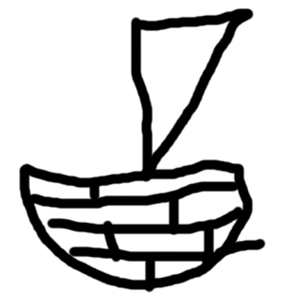
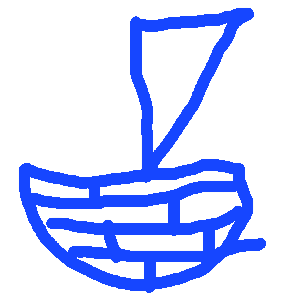
fufytkdty

Changed region(s): [[0.06, 0.03, 0.9, 0.99]]

diff --git a/index.html b/index.html
@@ -3,8 +3,8 @@
 <head>
     <meta charset="UTF-8">
     <meta name="viewport" content="width=device-width, initial-scale=1.0">
-    <meta name="description" content="Nothing special">
-    <title>Irmonus- Porftolio</title>
+    <meta name="description" content="jack of all trades hobbies">
+    <title>Irmonus- Interests</title>
     <link rel="icon" type="image/x-icon" href="/images/shadownirmonustransparent.png">
     <link rel="apple-touch-icon" sizes="180x180" href="/images/appletouchicon.png">
     <link rel="stylesheet" href="styles.css">
@@ -29,8 +29,8 @@
 </div>
 
 <div class="hero">
-  <h1>Portfolio</h1>
-  <p> </p>
+  <h1>Interests/Hobbies</h1>
+  <p></p>
 </div>
     
 <!-- Featured Topics/Games Section -->
@@ -40,32 +40,126 @@
       
           
       
-  <div class="topic">
+  
+
+ 
+   <div class="topic">
     <a href="sections/code.html">
     <h3>Coding/Programming</h3>
-    <img src="../images/rolimonsapi.png" alt="[Image of python program gathering data from rolimons then using that data to find sellers on roblox api]" class="fullsizeimage">
-    <p>Some fun projects I've made.</p>
+    <img src="../images/stockcodeimage.jpg" alt="[Image of python program gathering data from rolimons then using that data to find sellers on roblox api]" class="fullsizeimage">
+    <p>Creative/detailed projects.</p>
     </a>
   </div>
-
     
   <div class="topic">
     <a href="sections/music.html">
     <h3>Violinist</h3>
-    <img src="../images/violin.jpg" alt="[Image of violin]" class="fullsizeimage">
-    <p>Sup i'm musician.</p>
+    <img src="../images/stockviolinimage.jpg" alt="[Image of violin]" class="fullsizeimage">
+    <p>University Violinist playing for ODU Symphony.</p>
     </a>
   </div>
     
+   <div class="topic">
+    <a href="sections/fpvdrones.html">
+    <h3>Running!</h3>
+    <img src="../images/runningstockimage.jpg" alt="[Image of David Vytopil/irmonus running in 5k crowd]" class= "fullsizeimage">
+    <p>5k Running and Training.</p>
+    </a>
+  </div>
+
+
+  <div class="topic">
+    <a href="sections/fpvdrones.html">
+    <h3>Chess</h3>
+    <img src="../images/stockchessphoto.jpg" alt="[Image of David Vytopil/irmonus at chess event]" class= "fullsizeimage">
+    <p>Rated 1500 Rapid, Progress and Journey.</p>
+    </a>
+  </div>
+
+   <div class="topic">
+    <a href="sections/fpvdrones.html">
+    <h3>FPV Drones</h3>
+    <img src="../images/fpvheadimage.jpg" alt="[Image of static fpv shot]" class= "fullsizeimage">
+    <p>Freestyling and racing.</p>
+    </a>
+  </div>
+
       
+
+
+
+<div class="topic">
+    <a href="sections/fpvdrones.html">
+    <h3>Typing</h3>
+    <img src="../images/stocktypingimage.jpg" alt="[Image of nitrotype screenshot]" class= "fullsizeimage">
+    <p>177WPM peak, QWERTY, Colemak, Dvorak experimentation.</p>
+    </a>
+  </div>
+
+
+
+
+
+<div class="topic">
+    <a href="sections/fpvdrones.html">
+    <h3>Language Learning</h3>
+    <img src="../images/stocklanguageimage.jpg" alt="[Image of David Vytopil/irmonus CLS Spark Japanese Certificate]" class= "fullsizeimage">
+    <p>Polyglot in Progress.</p>
+    </a>
+  </div>
+
+  <div class="topic">
+    <a href="sections/fpvdrones.html">
+    <h3>Trading</h3>
+    <img src="../images/stocktradingimage.jpg" alt="[Image of David Vytopil/irmonus TopStep Combine Pass Certificate]" class= "fullsizeimage">
+    <p>Journey Navigating Different Trading Strategies.</p>
+    </a>
+  </div>
+<div class="topic">
+    <a href="sections/fpvdrones.html">
+    <h3>Rubik's Cube</h3>
+    <img src="../images/rubixstockimage.jpg" alt="[Image of rubix cube held up by David Vytopil/irmonus hand]" class= "fullsizeimage">
+    <p>Speedcuber, PB sub 20.</p>
+    </a>
+  </div>
+ 
+
+<div class="topic">
+    <a href="sections/fpvdrones.html">
+    <h3>Psychology!</h3>
+    <img src="../images/stockpsychology.jpg" alt="[Image of a dam hat on a table]" class= "fullsizeimage">
+    <p>The fascinating, nonsensical, and wonderful mechanics of the mind.</p>
+    </a>
+  </div>
+
   <div class="topic">
     <a href="sections/gaming.html">
     <h3>Gaming</h3>
-    <!-- <img src="../images/valorantshoot.png" alt="[Image of valorant screenshot]" class= "fullsizeimage"> -->
-    <p>nothing here o.0</p>
+    <img src="../images/stockgamingimage.jpg" alt="[Image of valorant screenshot]" class= "fullsizeimage">
+    <p>Former competitive player.</p>
     </a>
   </div>
       
+
+
+
+  
+
+  <div class="topic">
+    <a href="sections/fpvdrones.html">
+    <h3>YouTube</h3>
+    <img src="../images/stockyoutubephoto.jpg" alt="[Image of op1be (Rebranded to irmonus) channel page]" class= "fullsizeimage">
+    <p>4 Year Channel, 1.3k Subscribers.</p>
+    </a>
+  </div>
+
+
+
+
+
+ 
+
+
   </div>
 </section>
 

diff --git a/about.html b/about.html
@@ -31,14 +31,14 @@
     <div class="hero">
   <div class="about-me">
     <h1>About Me</h1>
-    <img src="images/irmonus.png" alt="David Vytopil" class="profile-pic">
+    <img src="images/irmonus.png" alt="David Vytopil/Irmonus pfp" class="profile-pic">
     <p>David Vytopil.</p>
-    <p>Kinda a jack of all trades, Antisocial ENTP.</p>
+    <p>Kinda a jack of all trades. Antisocial ENTP.</p>
     <p>Reach out on Insta/Discord or email vytopildavid01@gmail.com.</p>
       <p>It was fun putting together this site and stuff.</p>
       <div class="social-media-links">
         <a href="https://www.instagram.com/never_davido/" target="_blank" class="social-link"><img src="images/instagram.png" alt="Instagram"></a>
-        <a href="https://www.youtube.com/@op1be" target="_blank" class="social-link"><img src="images/youtube.png" alt="Youtube"></a>
+        <a href="https://www.youtube.com/@irmonus" target="_blank" class="social-link"><img src="images/youtube.png" alt="Youtube"></a>
         <a href="https://x.com/irmonus" target="_blank" class="social-link"><img src="images/twitter.png" alt="Twitter"></a>
       
         <a href="https://discord.com/invite/aSEWxvtUNg" target="_blank" class="social-link"><img src="images/discord.png" alt="Discord"></a>

diff --git a/sections/music.html b/sections/music.html
@@ -44,9 +44,10 @@
     
       <div class="topic">
         <a>
-            <h3>I play the violin.</h3>
-            <!-- <img src="../images/rolimonsapi.png" alt="[Image of python program gathering data from rolimons then using that data to find sellers on roblox api]" class="fullsizeimage"> -->
-            <p>Maybe one day I will be confident enough in my skills to add things here.</p>
+            <h3>Proud music minor at ODU.</h3>
+
+            <p>Some of the pieces performed.. Seits Student Concerto no.1, Dancla's Air Varie, part of Accolay Violin Concerto</p>
+
         </a>
       </div> 
       
